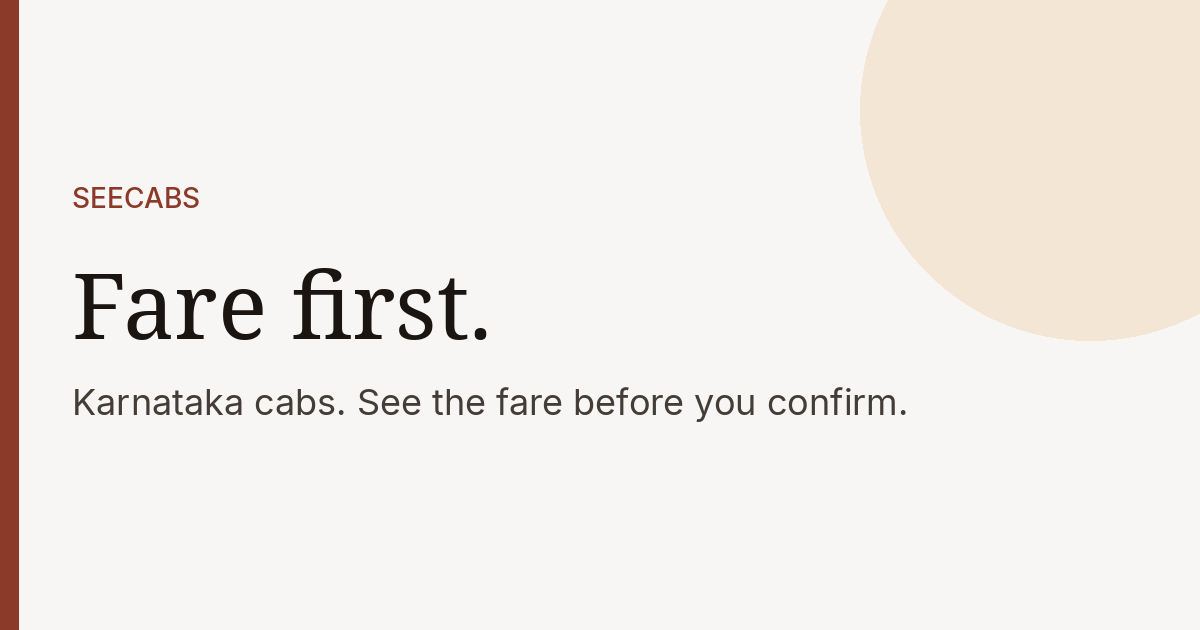
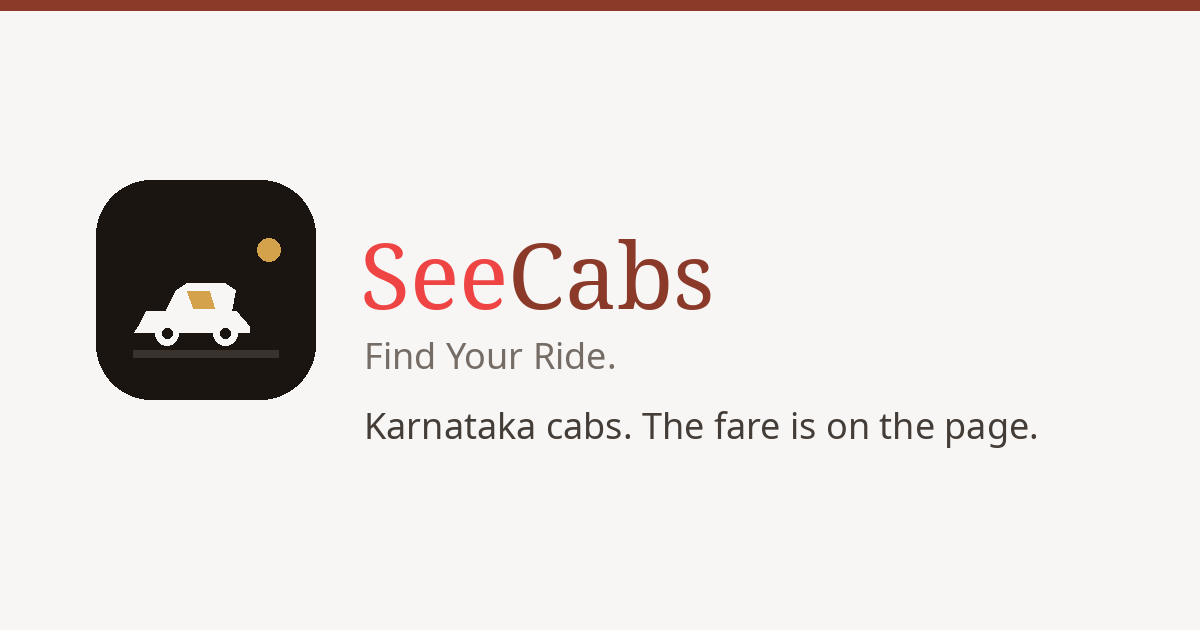
Add a cab mark and the Find Your Ride tagline.
The mark is a sedan with a gold windshield and a stop ahead, so it stays readable beside the name on a phone.

Changed region(s): [[0.0, 0.0, 1.0, 1.0], [0.0617, 0.2714, 0.8633, 0.7238]]

diff --git a/src/lib/data/cities.ts b/src/lib/data/cities.ts
@@ -25,7 +25,7 @@ export const cities: City[] = [
       slug: "airport",
     },
     tagline: "Airport, local hours and outstation — one trip builder.",
-    hero: "A cab in Bangalore — fare first.",
+    hero: "A cab in Bangalore — Find Your Ride.",
     trustLine: "Airport, local hours and outstation across Bengaluru.",
     popularDestinationSlugs: ["mysore", "coorg", "chennai", "ooty"],
     availableServiceIds: [...fullServices],
@@ -48,7 +48,7 @@ export const cities: City[] = [
       slug: "airport",
     },
     tagline: "Twin-city hops, HBX airport and North Karnataka routes.",
-    hero: "A cab in Hubli — fare first.",
+    hero: "A cab in Hubli — Find Your Ride.",
     trustLine: "Hubli and Hubballi — airport, local hours and North Karnataka runs.",
     popularDestinationSlugs: [
       "dandeli",
@@ -77,7 +77,7 @@ export const cities: City[] = [
       slug: "airport",
     },
     tagline: "University town. Airport is Hubballi — we price that honestly.",
-    hero: "A cab in Dharwad — fare first.",
+    hero: "A cab in Dharwad — Find Your Ride.",
     trustLine: "Dharwad taxi, Hubli hops, and honest HBX airport transfers.",
     popularDestinationSlugs: ["hubli", "belgaum", "goa", "hampi"],
     availableServiceIds: [...fullServices],
@@ -100,7 +100,7 @@ export const cities: City[] = [
       slug: "airport",
     },
     tagline: "IXG airport, Goa drops and local Belagavi hours.",
-    hero: "A cab in Belgaum — fare first.",
+    hero: "A cab in Belgaum — Find Your Ride.",
     trustLine: "Belgaum and Belagavi — IXG airport, city hours and Goa runs.",
     popularDestinationSlugs: ["goa", "hubli", "kolhapur", "pune"],
     availableServiceIds: [...fullServices],
@@ -123,7 +123,7 @@ export const cities: City[] = [
       slug: "airport",
     },
     tagline: "Coast airport, Udupi runs and local Mangaluru hours.",
-    hero: "A cab in Mangalore — fare first.",
+    hero: "A cab in Mangalore — Find Your Ride.",
     trustLine: "Mangalore and Mangaluru — IXE, local hours and the coast.",
     popularDestinationSlugs: ["udupi", "manipal", "bangalore", "coorg"],
     availableServiceIds: [...fullServices],

diff --git a/src/components/wordmark.tsx b/src/components/wordmark.tsx
@@ -1,4 +1,5 @@
 import Link from "next/link";
+import { LogoMark } from "@/components/logo-mark";
 import { brand } from "@/lib/brand";
 
 export function Wordmark({
@@ -8,28 +9,40 @@ export function Wordmark({
   href?: string;
   size?: "md" | "lg";
 }) {
-  const mark = (
-    <span
-      className={`wordmark tracking-tight ${
-        size === "lg" ? "text-[1.45rem] leading-none" : "text-[1.2rem] leading-none"
-      }`}
-    >
-      <span className="wordmark-see">See</span>
-      <span className="wordmark-cabs">Cabs</span>
+  const lockup = (
+    <span className={`flex min-w-0 items-center ${size === "lg" ? "gap-2.5" : "gap-2"}`}>
+      <LogoMark className={size === "lg" ? "h-10 w-10 shrink-0" : "h-8 w-8 shrink-0 sm:h-9 sm:w-9"} />
+      <span className="min-w-0 text-left">
+        <span
+          className={`wordmark block tracking-tight ${
+            size === "lg" ? "text-[1.45rem] leading-none" : "text-[1.05rem] leading-none sm:text-[1.2rem]"
+          }`}
+        >
+          <span className="wordmark-see">See</span>
+          <span className="wordmark-cabs">Cabs</span>
+        </span>
+        <span
+          className={`mt-0.5 block truncate font-medium tracking-wide text-muted ${
+            size === "lg" ? "text-xs" : "text-[10px] sm:text-[11px]"
+          }`}
+        >
+          {brand.tagline}
+        </span>
+      </span>
     </span>
   );
 
   if (!href) {
     return (
-      <span aria-label={brand.name} className="inline-flex items-baseline">
-        {mark}
+      <span aria-label={`${brand.name}. ${brand.tagline}`} className="inline-flex">
+        {lockup}
       </span>
     );
   }
 
   return (
-    <Link href={href} aria-label={brand.name} className="inline-flex items-baseline">
-      {mark}
+    <Link href={href} aria-label={`${brand.name}. ${brand.tagline}`} className="inline-flex min-w-0">
+      {lockup}
     </Link>
   );
 }

diff --git a/src/components/logo-mark.tsx b/src/components/logo-mark.tsx
@@ -1,0 +1,26 @@
+export function LogoMark({ className = "h-8 w-8" }: { className?: string }) {
+  return (
+    <svg
+      viewBox="0 0 32 32"
+      aria-hidden="true"
+      className={className}
+    >
+      <rect width="32" height="32" rx="8" fill="#1B1512" />
+      <path d="M5.5 25.2h21" stroke="#3A322C" strokeWidth="1.25" strokeLinecap="round" />
+      <circle cx="25.2" cy="10.2" r="1.7" fill="#D4A24A" />
+      <path
+        d="M7.4 19.15h13.1c.5 0 .95.28 1.16.74l.62 1.35c.2.44-.12.91-.6.91H6.15c-.48 0-.8-.47-.6-.91l.62-1.35c.21-.46.66-.74 1.23-.74z"
+        fill="#F7F6F4"
+      />
+      <path
+        d="M10.15 19.15l1.55-3.15c.28-.55.84-.88 1.44-.88h3.7c.6 0 1.16.33 1.44.88l1.4 3.15"
+        fill="#F7F6F4"
+      />
+      <path d="M13.35 16.15l.85 2.55h3.05l-.7-2.55h-3.2z" fill="#D4A24A" />
+      <circle cx="10.35" cy="22.35" r="1.7" fill="#F7F6F4" />
+      <circle cx="10.35" cy="22.35" r="0.72" fill="#1B1512" />
+      <circle cx="18.85" cy="22.35" r="1.7" fill="#F7F6F4" />
+      <circle cx="18.85" cy="22.35" r="0.72" fill="#1B1512" />
+    </svg>
+  );
+}

diff --git a/src/app/layout.tsx b/src/app/layout.tsx
@@ -25,7 +25,7 @@ const display = Fraunces({
 export const metadata: Metadata = {
   metadataBase: new URL(SITE_URL),
   title: {
-    default: `${brand.name} — fare first`,
+    default: `${brand.name} — ${brand.tagline.replace(/\.$/, "")}`,
     template: `%s · ${brand.name}`,
   },
   description:
@@ -34,7 +34,7 @@ export const metadata: Metadata = {
     type: "website",
     locale: "en_IN",
     siteName: brand.name,
-    images: [{ url: "/og.png", width: 1200, height: 630, alt: `${brand.name} — fare first` }],
+    images: [{ url: "/og.png", width: 1200, height: 630, alt: `${brand.name} — ${brand.tagline}` }],
   },
   twitter: {
     card: "summary_large_image",

diff --git a/src/lib/seo.ts b/src/lib/seo.ts
@@ -31,7 +31,7 @@ export function organizationJsonLd() {
     name: brand.name,
     url: absoluteUrl("/"),
     telephone: `+${brand.phoneNumber}`,
-    description: brand.tagline,
+    description: `${brand.tagline} Starting fares for cabs in Karnataka, confirmed on the phone or WhatsApp.`,
     contactPoint: {
       "@type": "ContactPoint",
       telephone: `+${brand.phoneNumber}`,
@@ -52,7 +52,7 @@ export function websiteJsonLd() {
     "@type": "WebSite",
     name: brand.name,
     url: absoluteUrl("/"),
-    description: brand.tagline,
+    description: `${brand.tagline} Starting fares for cabs in Karnataka, confirmed on the phone or WhatsApp.`,
   };
 }
 

diff --git a/src/components/header.tsx b/src/components/header.tsx
@@ -9,7 +9,7 @@ export function Header({ citySlug }: { citySlug?: string }) {
   return (
     <header className="site-header sticky top-0 z-30">
       <BrandRibbon placement="header" />
-      <div className="mx-auto flex h-12 max-w-6xl items-center justify-between gap-3 px-4 sm:h-16">
+      <div className="mx-auto flex h-14 max-w-6xl items-center justify-between gap-2 px-4 sm:h-16">
         <Wordmark />
         <nav className="flex items-center gap-2 sm:gap-3">
           <Link href="/cities" className="hidden text-sm text-ink-soft hover:text-ink sm:inline">

diff --git a/src/app/page.tsx b/src/app/page.tsx
@@ -33,7 +33,7 @@ export default function HomePage() {
         compact
         copy={{
           eyebrow: "Karnataka cabs",
-          title: "A cab in Karnataka — fare first.",
+          title: "A cab in Karnataka — Find Your Ride.",
           lead: "Local cabs, airport transfers, car rentals and outstation trips from Hubli, Dharwad, Belgaum, Bangalore and Mangalore. See a starting fare, then confirm on the phone or WhatsApp.",
           stats: [
             { value: "5", label: "Live cities" },

diff --git a/src/lib/brand.ts b/src/lib/brand.ts
@@ -1,6 +1,6 @@
 export const brand = {
   name: "SeeCabs",
-  tagline: "Karnataka cabs. See the fare before you confirm.",
+  tagline: "Find Your Ride.",
   whatsappNumber: process.env.NEXT_PUBLIC_WHATSAPP_NUMBER || "919900112233",
   phoneNumber:
     process.env.NEXT_PUBLIC_PHONE_NUMBER ||
